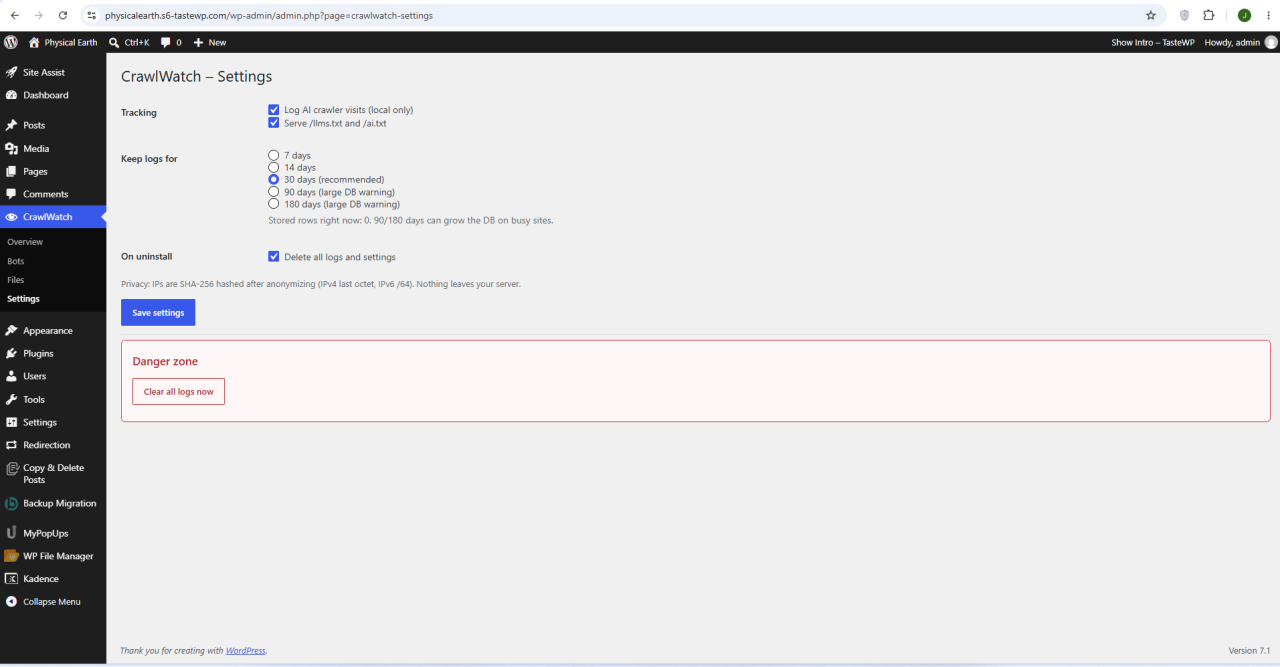
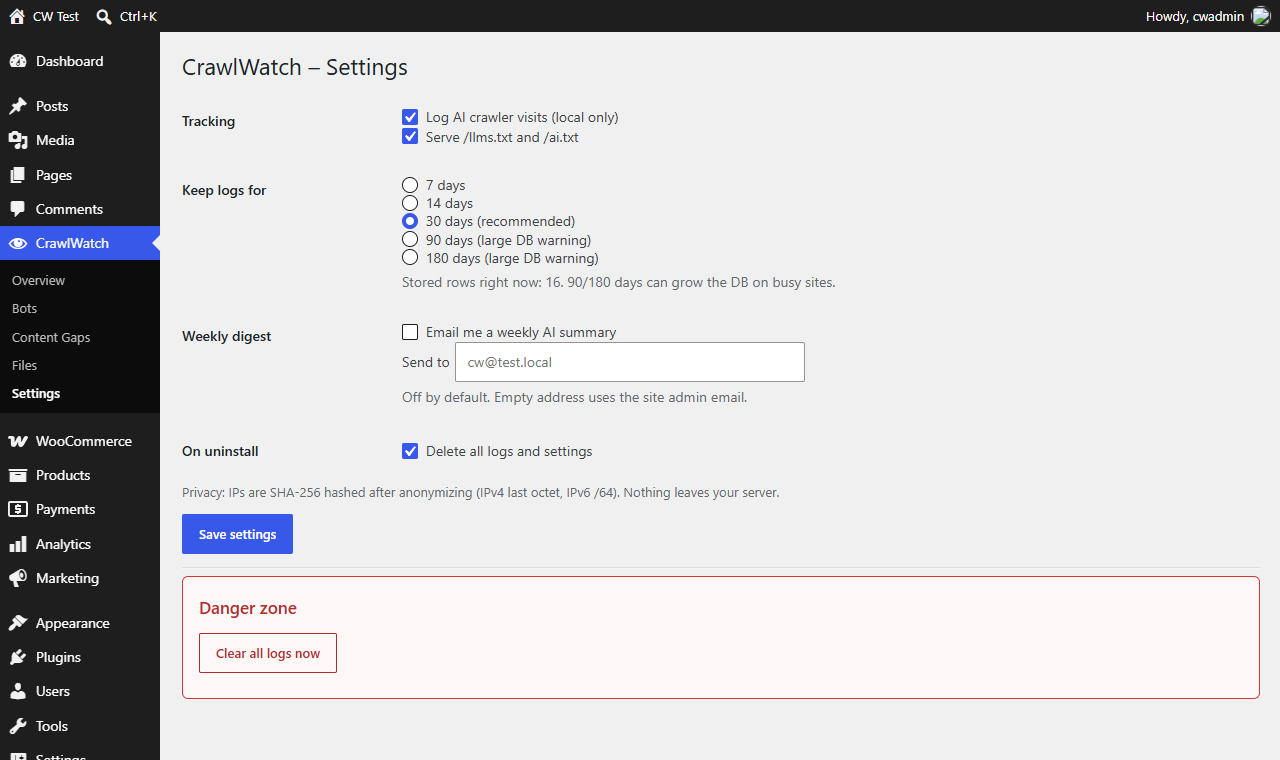
Refresh screenshots for 1.1.0 UI and fix gaps plural

Changed region(s): [[0.0, 0.0, 1.0, 1.0], [0.1562, 0.7796, 0.25, 0.8696], [0.3125, 0.5697, 0.4688, 0.5997]]

diff --git a/templates/gaps.php b/templates/gaps.php
@@ -22,7 +22,7 @@ if ( ! defined( 'ABSPATH' ) ) {
 			<p>
 				<?php
 				/* translators: %s: number of posts, formatted. */
-				echo esc_html( sprintf( __( '%s posts need excerpts (latest 50 checked).', 'crawlwatch-ai-bot-insights' ), number_format_i18n( count( $no_excerpt ) ) ) );
+				echo esc_html( sprintf( _n( '%s post needs excerpts (latest 50 checked).', '%s posts need excerpts (latest 50 checked).', count( $no_excerpt ), 'crawlwatch-ai-bot-insights' ), number_format_i18n( count( $no_excerpt ) ) ) );
 				?>
 			</p>
 			<table class="widefat striped">
@@ -54,7 +54,7 @@ if ( ! defined( 'ABSPATH' ) ) {
 			<p>
 				<?php
 				/* translators: %s: number of images, formatted. */
-				echo esc_html( sprintf( __( '%s images need alt text (latest 50 checked).', 'crawlwatch-ai-bot-insights' ), number_format_i18n( count( $no_alt ) ) ) );
+				echo esc_html( sprintf( _n( '%s image needs alt text (latest 50 checked).', '%s images need alt text (latest 50 checked).', count( $no_alt ), 'crawlwatch-ai-bot-insights' ), number_format_i18n( count( $no_alt ) ) ) );
 				?>
 			</p>
 			<table class="widefat striped">
